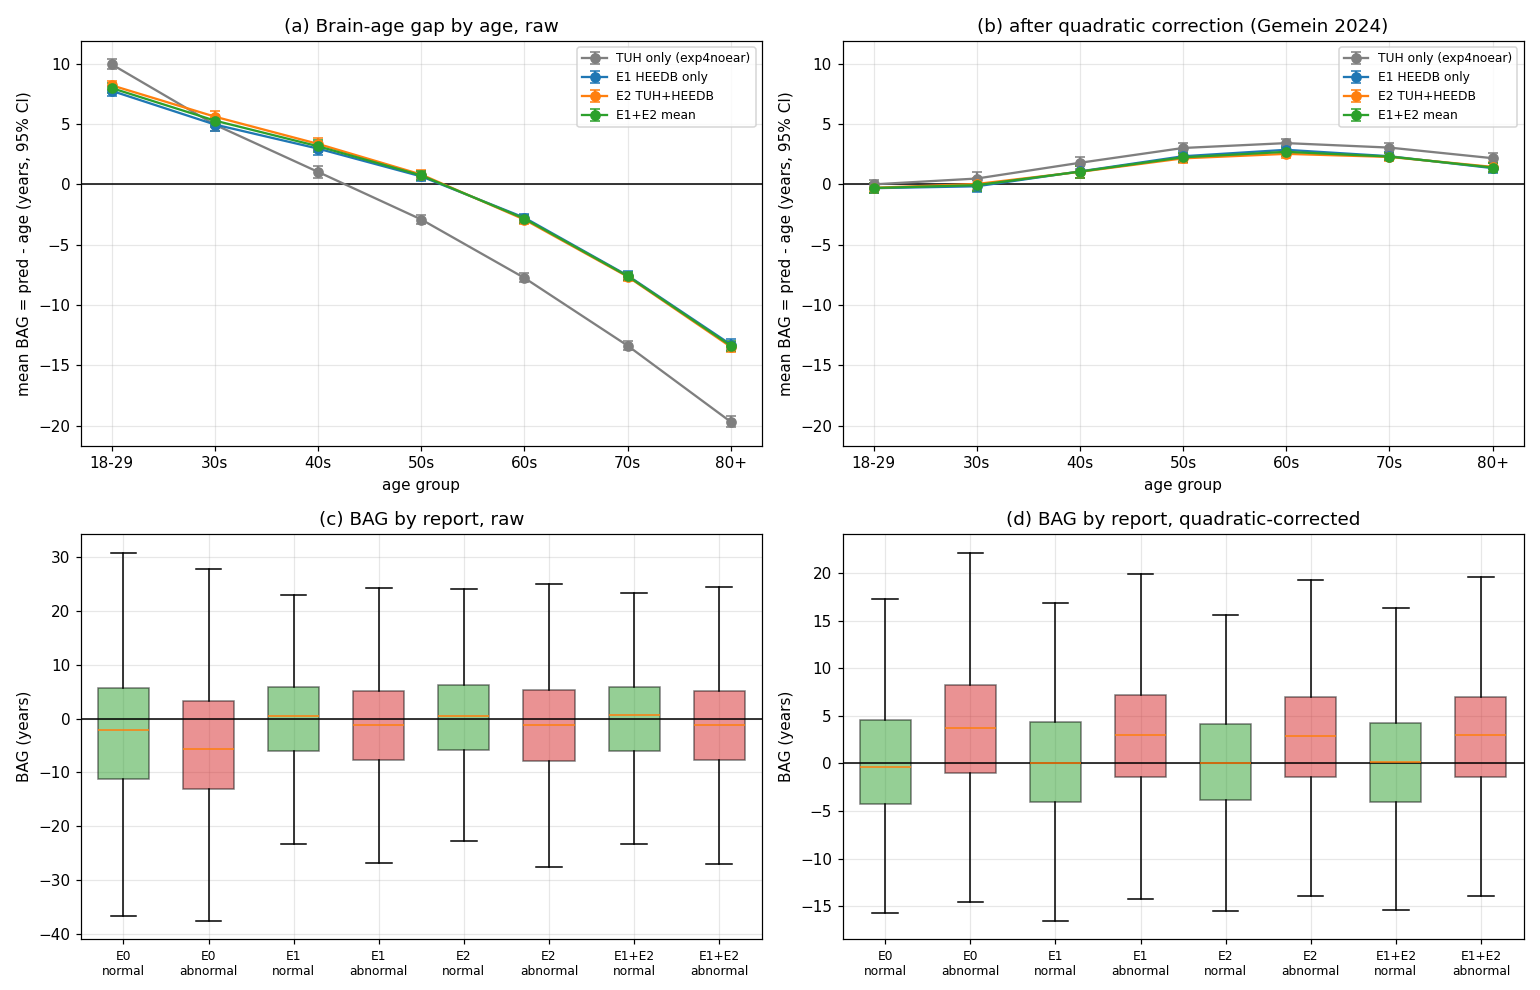
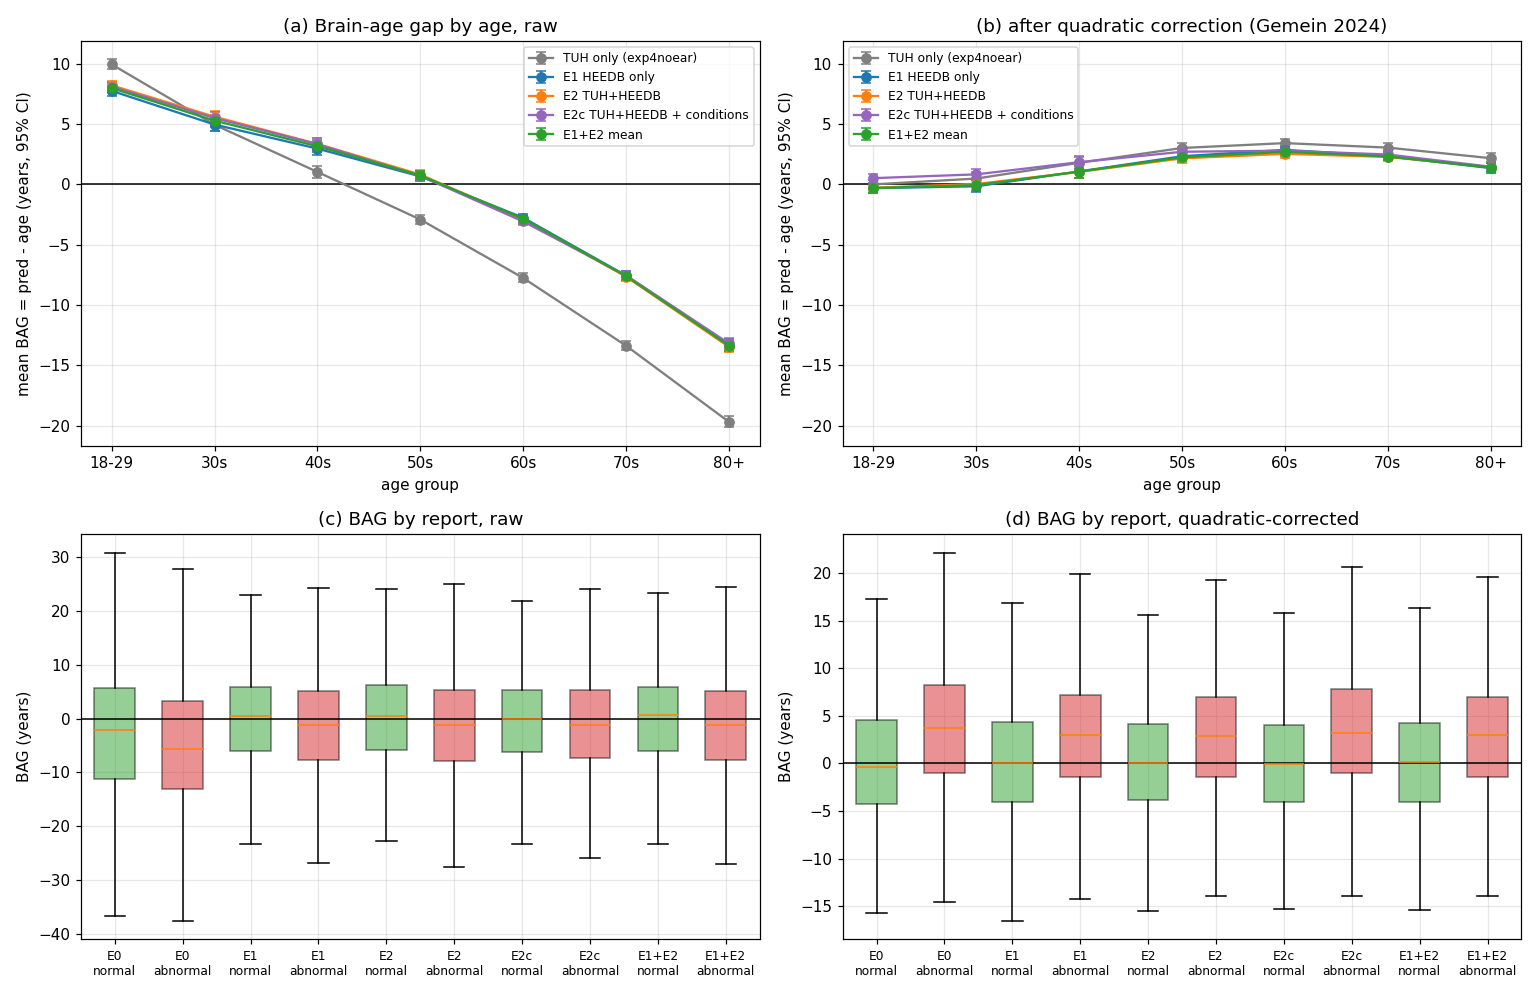
HEEDB E2c (E2 + clinical condition inputs, local) scored: TUAB 6.82, HEEDB 7.29; no gain over E2; added to bias-correction report

diff --git a/scripts/brain_age_bias_report.py b/scripts/brain_age_bias_report.py
@@ -39,7 +39,7 @@ from labram.eval.age_analysis import apply_bias_correction, fit_bias_correction 
 
 METHODS = ("none", "cole", "age_level", "quadratic_gap")
 LABELS = {"E0": "TUH only (exp4noear)", "E1": "E1 HEEDB only", "E2": "E2 TUH+HEEDB",
-          "E1+E2": "E1+E2 mean"}
+          "E2c": "E2c TUH+HEEDB + conditions", "E1+E2": "E1+E2 mean"}
 COHORTS = ("all", "normal", "abnormal", "unlabelled")
 SMALL_CELL = 10
 
@@ -147,7 +147,8 @@ def plot_bag_by_age(datas, params, corpus, path):
     from labram.eval.age_plots import assert_max_columns, panel_labels
     fig, axes = plt.subplots(2, 2, figsize=(14, 9))
     a = axes.ravel()
-    colors = {"E0": "tab:gray", "E1": "tab:blue", "E2": "tab:orange", "E1+E2": "tab:green"}
+    colors = {"E0": "tab:gray", "E1": "tab:blue", "E2": "tab:orange", "E2c": "tab:purple",
+              "E1+E2": "tab:green"}
     edges = [18, 30, 40, 50, 60, 70, 80, 100]
     names = ["18-29", "30s", "40s", "50s", "60s", "70s", "80+"]
     for m, d in datas.items():

diff --git a/docs/brain_age_bias_correction.md b/docs/brain_age_bias_correction.md
@@ -2,7 +2,9 @@
 
 Real vs predicted age and the brain-age gap before and after bias correction
 for the TUH-only baseline (`exp4anymiss-noear-nolabel`, "E0" here), E1
-(HEEDB only), E2 (TUH + HEEDB) and the mean of E1 and E2. Test sets:
+(HEEDB only), E2 (TUH + HEEDB), E2c (E2 + clinical condition inputs: report status
+normal/abnormal/not available and 14 pathology flags, `model.session_features=head`;
+trained locally on the same split) and the mean of E1 and E2. Test sets:
 **TUAB eval** (274 recordings: 149 normal, 125 abnormal) and the full
 **HEEDB held-out test** (7,338 recordings: 1,518 normal, 2,253 abnormal,
 3,567 unlabelled). Every correction is fitted on the **validation recordings
@@ -69,7 +71,7 @@ $$
 
 `docs/figures/brain_age_scatter_tuab.png`. One point per recording (green
 normal, red abnormal), identity line (dashed) and the least-squares fit
-(orange) of Eq. (1.2). Panels: (a) TUH only, (b) E1, (c) E2, (d) E1+E2 mean.
+(orange) of Eq. (1.2). Panels: (a) TUH only, (b) E1, (c) E2, (d) E2c, (e) E1+E2 mean.
 
 ![TUAB scatter](figures/brain_age_scatter_tuab.png)
 
@@ -117,6 +119,8 @@ with fewer than 10 recordings are not shown.
 | E2 | linear | 5.26 | 4.35 | 6.35 | 0.04 | +3.7 | 1e-5 | 0.66 |
 | **E2** | **quadratic** | 5.19 | **4.24** | 6.32 | 0.07 | **+3.9** | **6e-6** | **0.67** |
 | E1+E2 | quadratic | **5.00** | 4.34 | **5.79** | 0.12 | +3.4 | 2e-5 | 0.66 |
+| E2c (+ conditions) | none | 6.82 | 5.20 | 8.76 | −0.64 | −0.2 | 0.83 | 0.48 |
+| E2c (+ conditions) | quadratic | 5.23 | 4.25 | 6.40 | 0.08 | +4.2 | 8e-7 | 0.68 |
 
 ### Table 3.2. HEEDB test (7,338), correction fitted on HEEDB val normal
 
@@ -129,6 +133,8 @@ with fewer than 10 recordings are not shown.
 | E2 | none | 7.27 | 7.43 | 7.83 | −0.71 | −1.4 | 1e-5 | 0.45 |
 | E2 | quadratic | **5.18** | **4.91** | **5.51** | 0.14 | +2.4 | 2e-28 | 0.62 |
 | E1+E2 | quadratic | 5.25 | 4.98 | 5.57 | 0.14 | +2.5 | 3e-29 | 0.62 |
+| E2c (+ conditions) | none | 7.29 | 7.31 | 7.72 | −0.70 | −0.6 | 0.08 | 0.48 |
+| E2c (+ conditions) | quadratic | 5.25 | 4.98 | 5.92 | 0.09 | +3.1 | 6e-43 | 0.64 |
 
 Cole's inversion removes the age trend too ($r$ ≈ 0) but raises the MAE in every
 case (TUAB E2 6.70 → 7.79, HEEDB 7.27 → 8.20): it is the deployable choice
@@ -162,6 +168,12 @@ when the true age is unknown, at that cost. Full rows in the CSV.
   known accuracy/sensitivity trade-off of brain-age models. A dedicated
   abnormal head (E3) is the better route for classification. BAG stays a
   descriptive biomarker.
+
+- **Clinical inputs (E2c):** feeding the report status and pathology flags to the
+  regressor does not improve age accuracy. E2c is within 0.1 year of E2 raw and corrected on
+  both corpora (TUAB 6.82 vs 6.70, HEEDB 7.29 vs 7.27). Its corrected abnormal − normal gap is
+  larger (TUAB +4.2 vs +3.9, HEEDB +3.1 vs +2.4; AUROC 0.68/0.64 vs 0.67/0.62), but E2c *sees*
+  the abnormal label, so part of that separation is the label itself, not EEG evidence.
 
 ## 5. Reproduce
 

diff --git a/docs/heedb_onboarding_plan.md b/docs/heedb_onboarding_plan.md
@@ -333,6 +333,43 @@ years (`docs/data/tuab_eval_heedb_comparison.csv`, `docs/data/heedb_e1_e2.csv`):
   - **Checkpoint selection:** pick the epoch on a dataset-balanced val metric.
   - **Ensembles:** E1+E2 (or several seeds) as an ensemble for reporting.
 
+### E2c: E2 + clinical condition inputs, trained locally (2026-11-04)
+- **What:** the E2 recipe and split (`tuh_heedb_v1`, same training-target statistics 53.52 / 19.29)
+  with `model.session_features=head`.
+  - The input is the per-recording condition vector `conditions_v1.npz`: report status
+    (normal / abnormal / not available) plus 14 pathology flags.
+  - TUH flags come from the NEDC sheet; HEEDB's `dx_*` flags come from patient ICD-10 codes
+    (`make_condition_features.py --extra-clinical`).
+  - The vector goes through Linear(17→32) and is concatenated with the CLS feature before the
+    regressor.
+- **Where:** trained on this machine (A10G, `/data/runs/heedb/run_e2c.sh`), in 21.9 h. Loading
+  was data-bound: 6 loader workers against random reads from gp3, GPU idle about 60%.
+  `data.num_workers=20` is advised for local runs.
+
+| Epoch | 1 | 2 | 3 | 4 | 5 | 6 | 7 | 8 |
+|---|---|---|---|---|---|---|---|---|
+| Val E2c | 8.96 | 8.23 | 7.78 | 7.85 | 7.45 | 7.46 | 7.45 | **7.40** |
+| Val E2 | 8.89 | 8.36 | 8.07 | 7.92 | 7.44 | 7.48 | 7.48 | **7.43** |
+| Train-eval Harvard / Temple, E2c | 8.80 / 7.90 | 7.78 / 7.07 | 6.97 / 6.42 | 7.12 / 5.96 | 6.43 / 5.20 | 6.29 / 5.05 | 6.20 / 4.79 | 6.14 / 4.69 |
+| HEEDB test E2c (E2) | 9.08 (8.93) | 8.18 (8.28) | 7.67 (8.02) | 7.82 (7.87) | 7.32 (7.24) | 7.36 (7.34) | 7.32 (7.30) | 7.28 (7.27) |
+| TUAB eval E2c (E2) | 8.11 (7.90) | 7.30 (7.33) | 7.07 (7.23) | 7.02 (6.97) | 6.79 (6.86) | 6.87 (6.79) | 6.83 (6.67) | 6.82 (6.70) |
+
+Final checkpoint (epoch 8), scored offline:
+
+| Test set | E2c | E2 |
+|---|---|---|
+| TUAB eval: all / normal / abnormal | 6.82 / 5.20 / 8.76 | 6.70 / 5.13 / 8.56 |
+| HEEDB full test (7,338) | 7.29 | 7.27 |
+| HEEDB 2,100 subset | 7.35 | 7.42 |
+
+- **Accuracy:** the clinical inputs speed up early training (−0.3 years at epoch 3) but do not
+  improve the final age accuracy (within ±0.1 year of E2).
+- **Recommendation:** E2 stays the reference model. It is EEG-only and needs no clinical labels at
+  inference.
+- **Gap separation:** with the quadratic bias correction, E2c separates abnormal from normal
+  recordings slightly more (`docs/brain_age_bias_correction.md`). E2c receives the abnormal label
+  as input, so that separation is not EEG evidence.
+
 ### Per-dataset reporting (from the runs after E1/E2)
 Every fine-tune now reports each split overall, per cohort (normal / abnormal / unlabelled)
 and per dataset x cohort (`harvard_*`, `temple_*`, e.g. `temple_abnormal_mae`). A
